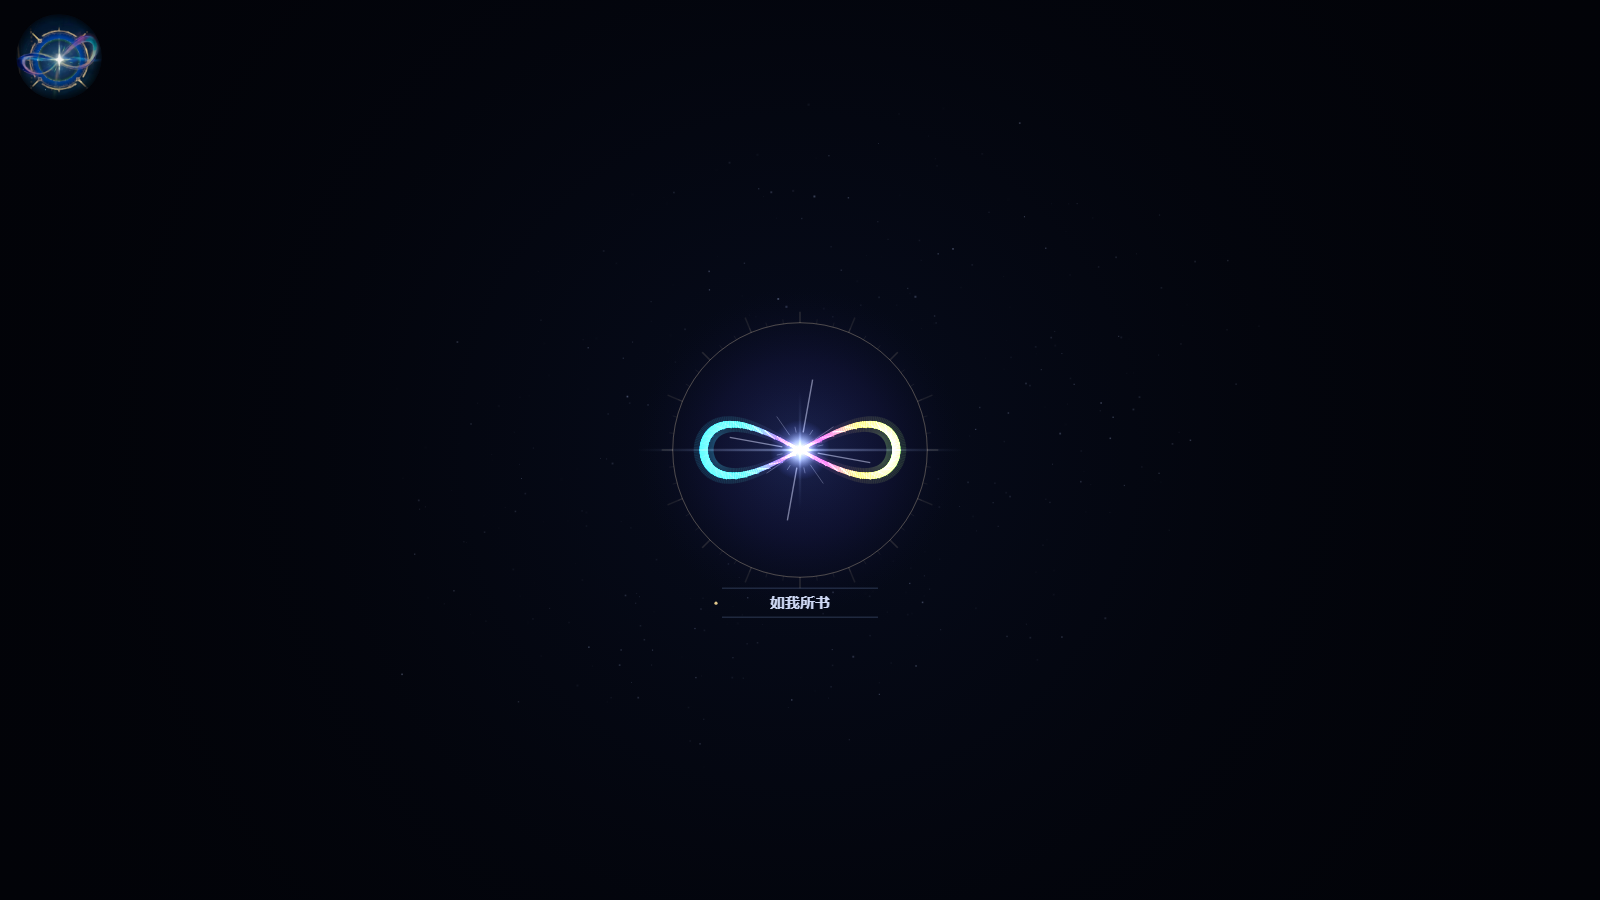
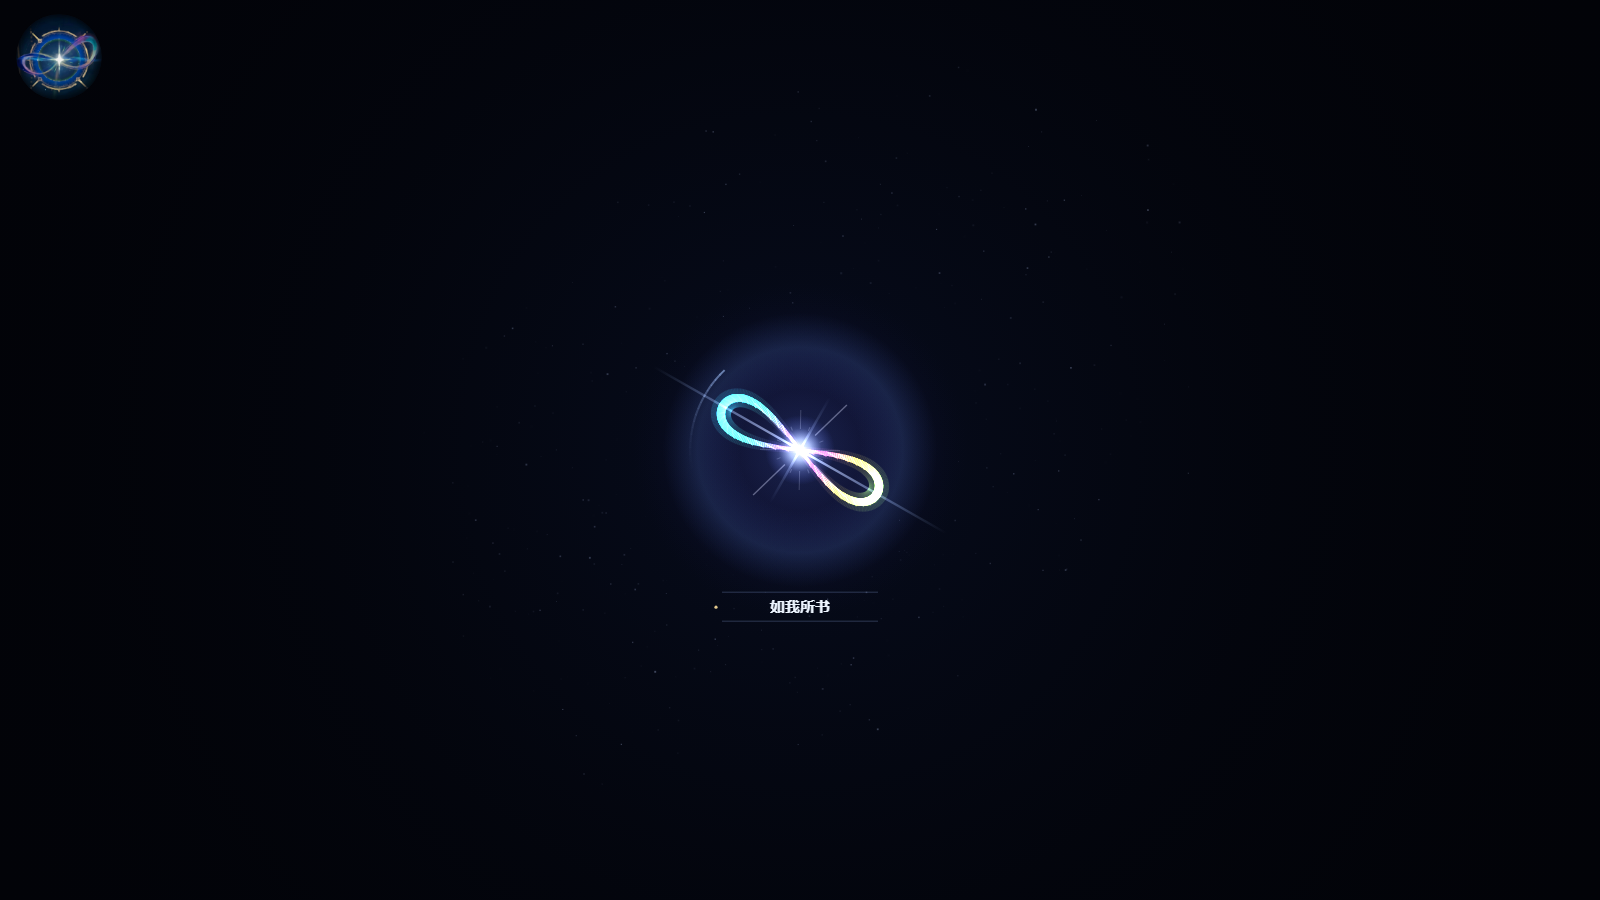
去掉刻度假环（arc 起终点写反导致整圈叠亮），收束终点改成实测 0.24，规则区按素材重排竖板/引线/百分比

Changed region(s): [[0.4062, 0.3733, 0.5938, 0.6222], [0.4688, 0.6533, 0.5312, 0.6844]]

diff --git a/public/index.html b/public/index.html
@@ -131,42 +131,62 @@
 .r-actions button:disabled { opacity: 0.3; cursor: default; }
 .r-actions button.on { color: #bdf5dd; border-color: rgba(120,220,180,0.6); }
 
-.r-bar { position: relative; height: 22px; background: rgba(8,14,30,0.85);
+.r-bar { position: relative; height: 26px; background: rgba(8,14,30,0.85);
   border: 1px solid rgba(90,120,190,0.22); overflow: hidden; }
 .r-bar-fill { position: absolute; left: 0; top: 0; bottom: 0; width: 0;
   background: linear-gradient(90deg, rgba(70,170,255,0.35), rgba(70,170,255,0.08)); transition: width .4s; }
 .r-bar::after { content: ''; position: absolute; inset: 0;
   background: repeating-linear-gradient(90deg, transparent 0 39px, rgba(120,160,230,0.14) 39px 40px); }
-.r-bar span { position: absolute; left: 10px; top: 3px; font-size: 11px; color: #9fb6dd; z-index: 2; }
+.r-bar span { position: absolute; left: 10px; top: 4px; font-size: 11px; color: #cfe0ff; z-index: 2;
+  text-shadow: 0 0 8px rgba(90,150,255,0.6); }
+.r-bar span.pct { position: absolute; left: auto; right: 10px; top: 4px; font-size: 12px; font-weight: 600;
+  color: #e9f2ff; z-index: 2; }
 
-.r-cabinet { display: flex; gap: 9px; overflow-x: auto; padding: 6px 2px 12px; min-height: 240px; }
-.file-card { flex: 0 0 124px; height: 210px; cursor: pointer; position: relative; padding: 10px 9px;
-  display: flex; flex-direction: column; gap: 6px; border-radius: 2px;
+.r-cabinet { position: relative; display: flex; align-items: flex-end; gap: 8px; overflow-x: auto;
+  padding: 46px 2px 14px; min-height: 330px; }
+.fab-label { position: absolute; top: 2px; transform: translateX(-50%); text-align: center;
+  font-size: 12px; letter-spacing: 1px; color: #dce9ff; white-space: nowrap; pointer-events: none; }
+.fab-label::after { content: ''; position: absolute; left: 50%; top: 100%; width: 1px; height: 22px;
+  background: linear-gradient(180deg, rgba(150,200,255,0.75), rgba(150,200,255,0.1)); }
+.fab-label i { display: inline-block; width: 0; height: 0; border-left: 4px solid transparent;
+  border-right: 4px solid transparent; border-top: 6px solid rgba(150,200,255,0.85);
+  position: absolute; left: 50%; top: calc(100% + 22px); margin-left: -4px; }
+.fab-label em { font-style: normal; margin-left: 5px; font-size: 9px; padding: 0 4px; border-radius: 2px;
+  color: #1a1206; background: #e8b64c; vertical-align: 2px; }
+.file-card { flex: 0 0 108px; height: 262px; cursor: pointer; position: relative; overflow: hidden;
+  display: flex; flex-direction: column; align-items: stretch; border-radius: 2px;
   border: 1px solid rgba(110,150,220,0.22);
-  background: linear-gradient(180deg, rgba(30,52,100,0.42), rgba(8,14,30,0.6));
+  background:
+    repeating-linear-gradient(90deg, rgba(120,180,255,0.05) 0 1px, transparent 1px 8px),
+    linear-gradient(180deg, rgba(28,48,94,0.5), rgba(8,14,30,0.66));
   transition: transform .2s, box-shadow .2s, border-color .2s; }
-.file-card::before { content: ''; position: absolute; left: 9px; right: 9px; top: 46px; bottom: 44px;
-  background: linear-gradient(180deg, rgba(120,180,255,0.09), rgba(120,180,255,0.02));
+.file-card::after { content: ''; position: absolute; left: 0; right: 0; top: 0; height: 2px;
+  background: linear-gradient(90deg, transparent, rgba(140,200,255,0.55), transparent); opacity: 0.45; }
+.file-card .f-icon { position: relative; width: 36px; height: 30px; margin: 34px auto 0; opacity: 0.7; }
+.file-card .f-icon::before { content: ''; position: absolute; left: 0; top: 7px; width: 36px; height: 22px;
+  border-radius: 2px; border: 1.5px solid rgba(150,200,255,0.85); }
+.file-card .f-icon::after { content: ''; position: absolute; left: 1px; top: 0; width: 15px; height: 7px;
+  border: 1.5px solid rgba(150,200,255,0.85); border-bottom: none; border-radius: 2px 2px 0 0; }
+.file-card .f-body { flex: 1; margin: 12px 8px; border-radius: 2px;
+  background: linear-gradient(180deg, rgba(120,180,255,0.1), rgba(120,180,255,0.02) 55%, rgba(120,180,255,0.07));
   border: 1px solid rgba(120,180,255,0.14); }
-.file-card .f-icon { width: 26px; height: 22px; position: relative; opacity: 0.75; }
-.file-card .f-icon::before { content: ''; position: absolute; left: 0; top: 4px; width: 26px; height: 16px;
-  border-radius: 2px; border: 1.4px solid rgba(150,200,255,0.85); }
-.file-card .f-icon::after { content: ''; position: absolute; left: 1px; top: -1px; width: 11px; height: 5px;
-  border: 1.4px solid rgba(150,200,255,0.85); border-bottom: none; border-radius: 2px 2px 0 0; }
-.file-card .f-name { font-size: 12px; color: #dbe7ff; margin-top: auto; }
-.file-card .f-meta { font-size: 10px; color: #7d8db4; }
-.file-card .f-badge { position: absolute; top: 8px; right: 8px; font-size: 9px; padding: 1px 5px; border-radius: 2px; }
-.file-card .f-badge.global { color: #f0dfae; border: 1px solid rgba(226,200,140,0.55); }
-.file-card .f-badge.local { color: #9fd8ff; border: 1px solid rgba(120,190,255,0.4); }
-.file-card .f-new { position: absolute; left: 9px; top: 34px; font-size: 9px; padding: 0 4px; border-radius: 2px;
-  color: #1a1206; background: #e8b64c; }
+.file-card .f-name { font-size: 12px; color: #dbe7ff; padding: 0 9px 4px; }
+.file-card .f-meta { font-size: 10px; color: #7d8db4; padding: 0 9px 11px; line-height: 1.4; }
+.file-card .f-badge { position: absolute; top: 8px; right: 8px; z-index: 2; font-size: 9px; padding: 1px 5px; border-radius: 2px; }
+.file-card .f-badge.global { color: #f0dfae; border: 1px solid rgba(226,200,140,0.55); background: rgba(40,32,12,0.6); }
+.file-card .f-badge.local { color: #9fd8ff; border: 1px solid rgba(120,190,255,0.4); background: rgba(14,32,56,0.6); }
+.file-card .f-new { position: absolute; left: 8px; top: 8px; z-index: 2; font-size: 9px; padding: 0 4px;
+  border-radius: 2px; color: #1a1206; background: #e8b64c; }
 .file-card:hover { transform: translateY(-5px); border-color: rgba(140,200,255,0.5); }
-.file-card.on { transform: translateY(-8px); border-color: rgba(130,215,255,0.9);
-  background: linear-gradient(180deg, rgba(60,110,190,0.6), rgba(10,24,54,0.72));
-  box-shadow: 0 0 26px rgba(90,180,255,0.4), inset 0 0 22px rgba(90,180,255,0.14); }
-.file-card.on .f-icon { opacity: 1; }
+.file-card.on { transform: translateY(-10px); border-color: rgba(130,215,255,0.9);
+  background:
+    repeating-linear-gradient(90deg, rgba(140,200,255,0.09) 0 1px, transparent 1px 8px),
+    linear-gradient(180deg, rgba(60,110,190,0.65), rgba(10,24,54,0.76));
+  box-shadow: 0 0 28px rgba(90,180,255,0.42), inset 0 0 24px rgba(90,180,255,0.15); }
+.file-card.on .f-icon { opacity: 1; filter: drop-shadow(0 0 10px rgba(150,215,255,0.85)); }
 .file-card.empty { border-style: dashed; border-color: rgba(110,150,220,0.3); background: rgba(10,18,36,0.4); }
 .file-card.empty .f-name { color: #62719a; }
+.file-card.empty .f-icon { opacity: 0.28; }
 
 .r-main { flex: 1; display: grid; grid-template-columns: 280px 1fr; gap: 14px; min-height: 0; }
 .r-list { display: flex; flex-direction: column; min-height: 0; border: 1px solid rgba(90,120,190,0.18);
@@ -241,7 +261,7 @@
       <button id="r-close">×</button>
     </div>
   </div>
-  <div class="r-bar"><div class="r-bar-fill" id="r-bar"></div><span id="r-note"></span></div>
+  <div class="r-bar"><div class="r-bar-fill" id="r-bar"></div><span id="r-note"></span><span class="pct" id="r-pct">0%</span></div>
   <div class="r-cabinet" id="r-cabinet"></div>
   <div class="r-main">
     <aside class="r-list">
@@ -792,7 +812,10 @@
     updateCamera();
 
     // 三幕推进
-    if (stage === 'morph') {
+    if (qs.get('lock') !== null) {
+      stage = 'morph';
+      morphT = Math.max(0, Math.min(0.999, Number(qs.get('lock')) || 0));
+    } else if (stage === 'morph') {
       morphT = Math.max(0, Math.min(1, morphT + (dt / MORPH_SECONDS) * morphDir));
       focusTarget.x *= 0.88; focusTarget.y *= 0.88; focusTarget.z *= 0.88;
       if (morphT >= 1) stage = 'symbol';
@@ -824,7 +847,8 @@
         drawLabels();
       }
     }
-    if (st.inf > 0.5) drawInfinity(st.inf, t, st.infS);
+    if (qs.get('icon') === '0') { /* 调试：不画图标 */ }
+    else if (st.inf > 0.15) drawInfinity(st.inf, t, st.infS);
     requestAnimationFrame(frame);
   }
 
@@ -842,13 +866,14 @@
     if (stage === 'galaxy') return { k: 1, a: 1, inf: 0, roll: 0, infS: 1 };
     if (stage === 'morph') {
       const e = easeIO(morphT);
-      // 关键：星带先缩到几乎一个点、再淡出；图标从那个点大小（0.22 倍）长到 1 倍
+      // 缩到 0.24：实测这个比例下星带在屏幕上正好 172px，与图标同宽；
+      // 然后两者原位交叉淡入，视觉上就是「星带收成图标」
       return {
-        k: 1 - 0.945 * e,
+        k: 1 - 0.76 * e,
         roll: -Math.PI / 2 * e,
-        a: 1 - clamp01((morphT - 0.74) / 0.14),
-        inf: clamp01((morphT - 0.8) / 0.2),
-        infS: 0.22 + 0.78 * clamp01((morphT - 0.8) / 0.2),
+        a: qs.get('band') === '1' ? 1 : 1 - clamp01((morphT - 0.86) / 0.12),
+        inf: clamp01((morphT - 0.86) / 0.12),
+        infS: 1,
       };
     }
     return { k: 0, a: 0, inf: 1, roll: -Math.PI / 2, infS: 1 };
@@ -873,7 +898,7 @@
     const selNow = stage === 'selected' || stage === 'panel';
     const f = 1 + 0.03 * hover;
     const size = SYMBOL_PX * f * (infScale == null ? 1 : infScale);
-    const A = size * 0.56, B = size * 0.30;
+    const A = size * 0.5, B = size * 0.21;
     const pulse = 0.5 + 0.5 * Math.sin(t * 2.4);
 
     ctx.save();
@@ -894,57 +919,30 @@
     ctx.rotate(iconSpin);
     ctx.translate(-cx, -cy);
 
-    // 外环与刻度：光扫经过的地方依次点亮
-    const R0 = size * 0.74;
-    ctx.globalAlpha = alpha * 0.3;
-    ctx.strokeStyle = '#e8cf95';
-    ctx.lineWidth = 1;
-    ctx.beginPath(); ctx.arc(cx, cy, R0, 0, Math.PI * 2); ctx.stroke();
+    // 外环：素材里没有刻度环，只有一圈很淡的冷光
+    const R0 = size * 0.62;
+    const halo = ctx.createRadialGradient(cx, cy, R0 * 0.55, cx, cy, R0 * 1.25);
+    halo.addColorStop(0, 'rgba(90,140,255,0)');
+    halo.addColorStop(0.55, 'rgba(110,170,255,' + (0.06 * alpha * (1 + hover)).toFixed(3) + ')');
+    halo.addColorStop(1, 'rgba(90,140,255,0)');
+    ctx.fillStyle = halo;
+    ctx.beginPath(); ctx.arc(cx, cy, R0 * 1.25, 0, Math.PI * 2); ctx.fill();
 
-    const head = sweep * Math.PI * 2 - Math.PI / 2;
-    const ticks = 48;
-    for (let i = 0; i < ticks; i++) {
-      const ang = (i / ticks) * Math.PI * 2 - Math.PI / 2;
-      let d = ang - head;
-      d = Math.abs(Math.atan2(Math.sin(d), Math.cos(d)));
-      const near = Math.exp(-(d * d) / 0.08) * hover;
-      const big = i % 6 === 0;
-      const lit = selNow ? 0.9 : (big ? 0.42 : 0.2) + 0.75 * near;
-      const len = big ? 11 : 4.5;
-      ctx.strokeStyle = 'rgba(236,212,155,' + (Math.min(1, lit) * alpha).toFixed(3) + ')';
-      ctx.lineWidth = big ? 1.6 : 1;
-      ctx.beginPath();
-      ctx.moveTo(cx + Math.cos(ang) * R0, cy + Math.sin(ang) * R0);
-      ctx.lineTo(cx + Math.cos(ang) * (R0 + len), cy + Math.sin(ang) * (R0 + len));
-      ctx.stroke();
-    }
-    // 光扫头：沿环一段 50° 的高亮弧，跟着 sweep 走
+    // 悬停时光沿轨道扫一圈（一条柔和的弧，不是刻度）
     if (hover > 0.05) {
-      const span = 0.9;
-      const g2 = ctx.createLinearGradient(
-        cx + Math.cos(head) * R0, cy + Math.sin(head) * R0,
-        cx + Math.cos(head - span) * R0, cy + Math.sin(head - span) * R0);
-      g2.addColorStop(0, 'rgba(255,240,200,' + (0.9 * hover * alpha).toFixed(3) + ')');
-      g2.addColorStop(1, 'rgba(255,220,150,0)');
-      ctx.strokeStyle = g2;
-      ctx.lineWidth = 3;
-      ctx.beginPath();
-      ctx.arc(cx, cy, R0, head - span, head);
-      ctx.stroke();
+      const head = sweep * Math.PI * 2 - Math.PI / 2;
+      const span = 1.1;
+      ctx.lineWidth = 2;
+      // 角度必须从小到大：起点大于终点时 canvas 会绕整整一圈
+      for (let i = 0; i < 18; i++) {
+        const a0 = head - span + span * (i / 18);
+        const a1 = a0 + span / 18 + 0.002;
+        ctx.strokeStyle = 'rgba(190,220,255,' + (0.5 * hover * alpha * Math.pow(i / 18, 2.2)).toFixed(3) + ')';
+        ctx.beginPath();
+        ctx.arc(cx, cy, R0, a0, a1);
+        ctx.stroke();
+      }
     }
-
-    // 8 根长刺
-    for (let i = 0; i < 8; i++) {
-      const ang = (i / 8) * Math.PI * 2 + Math.PI / 8;
-      const a0 = (selNow ? 0.55 : 0.3) * alpha;
-      ctx.strokeStyle = 'rgba(236,212,155,' + a0.toFixed(3) + ')';
-      ctx.lineWidth = 1.4;
-      ctx.beginPath();
-      ctx.moveTo(cx + Math.cos(ang) * R0, cy + Math.sin(ang) * R0);
-      ctx.lineTo(cx + Math.cos(ang) * (R0 + 16), cy + Math.sin(ang) * (R0 + 16));
-      ctx.stroke();
-    }
-    ctx.globalAlpha = 1;
 
     // 丝带：沿法线方向按宽度剖面填实，中间粗、交点细，像素材里那条拧起来的带子
     const pt = (u) => ({ x: cx + A * Math.sin(u), y: cy + B * Math.sin(u) * Math.cos(u) });
@@ -998,9 +996,9 @@
     for (let i = 0; i < 16; i++) {
       const ang = (i / 16) * Math.PI * 2 + spin * 0.15;
       const long = i % 4 === 0;
-      const base = long ? 0.42 : (i % 2 ? 0.14 : 0.24);
+      const base = long ? 0.26 : (i % 2 ? 0.1 : 0.16);
       const len = size * base * (1 + 0.35 * hover) * (0.9 + 0.2 * pulse);
-      ctx.strokeStyle = 'rgba(255,255,255,' + ((long ? 0.4 : 0.22) * alpha).toFixed(3) + ')';
+      ctx.strokeStyle = 'rgba(255,255,255,' + ((long ? 0.3 : 0.16) * alpha).toFixed(3) + ')';
       ctx.lineWidth = long ? 1.4 : 1;
       ctx.beginPath();
       ctx.moveTo(cx + Math.cos(ang) * coreR * 0.6, cy + Math.sin(ang) * coreR * 0.6);
@@ -1142,9 +1140,11 @@
     renderCabinet();
     const total = 1 + rulesData.workspaces.length;
     const have = (rulesData.main.exists ? 1 : 0) + rulesData.workspaces.filter((w) => w.exists).length;
-    R('r-bar').style.width = (have / total * 100).toFixed(1) + '%';
+    const pct = Math.round((have / total) * 100);
+    R('r-bar').style.width = pct + '%';
+    R('r-pct').textContent = pct + '%';
     R('r-note').style.color = '';
-    R('r-note').textContent = '规则文件 ' + have + ' / ' + total + ' 份已就绪';
+    R('r-note').textContent = '规则文件 ' + have + ' / ' + total;
     await pickFile(rulesIdx);
   }
 
@@ -1183,14 +1183,25 @@
         ? '<span class="f-badge global">全局</span>'
         : '<span class="f-badge local">仅本区</span>';
       const newTag = f.exists && fresh(f.mtime) ? '<span class="f-new">新</span>' : '';
-      card.innerHTML = badge + newTag + '<div class="f-icon"></div>'
+      card.innerHTML = badge + newTag + '<div class="f-icon"></div><div class="f-body"></div>'
         + '<div class="f-name">' + (f.exists ? 'AGENTS.md' : '未创建') + '</div>'
-        + '<div class="f-meta">' + fileLabel(f) + ' · '
-        + (f.exists ? Math.max(1, Math.round(f.size / 1024)) + 'KB' : '点击新建') + '</div>';
+        + '<div class="f-meta">' + (f.exists ? Math.max(1, Math.round(f.size / 1024)) + 'KB · ' : '') + fileLabel(f)
+        + (f.exists ? '' : ' · 点击新建') + '</div>';
       card.title = f.path;
       card.onclick = () => pickFile(i);
       box.appendChild(card);
     });
+    // 选中那块上方的标注 + 引线
+    const on = box.children[rulesIdx];
+    if (on) {
+      const f = all[rulesIdx];
+      const label = document.createElement('div');
+      label.className = 'fab-label';
+      label.style.left = (on.offsetLeft + on.offsetWidth / 2) + 'px';
+      label.innerHTML = (f.kind === 'global' ? '主规则' : fileLabel(f))
+        + (f.exists && fresh(f.mtime) ? '<em>新</em>' : '<i></i>');
+      box.appendChild(label);
+    }
   }
 
   async function pickFile(i) {

diff --git a/README.md b/README.md
@@ -90,6 +90,8 @@ curl http://127.0.0.1:8787/api/report
 | `package.json` 的 `icon` / 包名 | 重启 DSH（插件列表在启动时读） |
 | `lib/model.js`（工具与提示词） | 重启 DSH（工具在启动时注册） |
 | `lib/rules.js`（规则区接口） | 重启 DSH（路由在启动时注册；页面本身刷新就更新） |
+
+调试用的 URL 参数：`?lock=0.9` 把凝缩冻结在某个进度，`?icon=0` 不画图标，`?band=1` 让星带不淡出——量尺寸、对位置时用。
 | 手改 `~/.dsh/mobius-memory.json` | 下次读就是新的（按 mtime 判断） |
 
 ## 写入（隐藏 / 改概要）
@@ -208,7 +210,9 @@ node test/smoke.mjs
 
 点星图正中那颗白亮的星核，整块星图会定格、**绕中心转 90°**（竖着的八字转成横的 ∞），一路缩到屏幕中央 —— 缩到几乎一个点的时候，徽标从那个点里长出来，长到 **172px**（= 侧栏徽记的 2 倍）。
 
-悬停时整个徽标缓慢自转（约 10°/秒），一道光沿外环扫过、刻度依次点亮，星核呼吸；单击进入选中态，再点一下展开规则区。点徽标以外的黑色区域，徽标会放大回星图。
+悬停时整个徽标缓慢自转（约 10°/秒），一道柔光沿圆轨扫过，星核呼吸；单击进入选中态，再点一下展开规则区。点徽标以外的黑色区域，徽标会放大回星图。
+
+自动缩放的终点是实测出来的：星带缩到 0.24 倍时，在屏幕上正好 172px，和图标同宽，所以最后一帧两者原位重合、交叉淡入，不会出现「一大一小叠在一起」。
 
 ![凝缩后的 ∞](docs/emblem-172.png)
 
